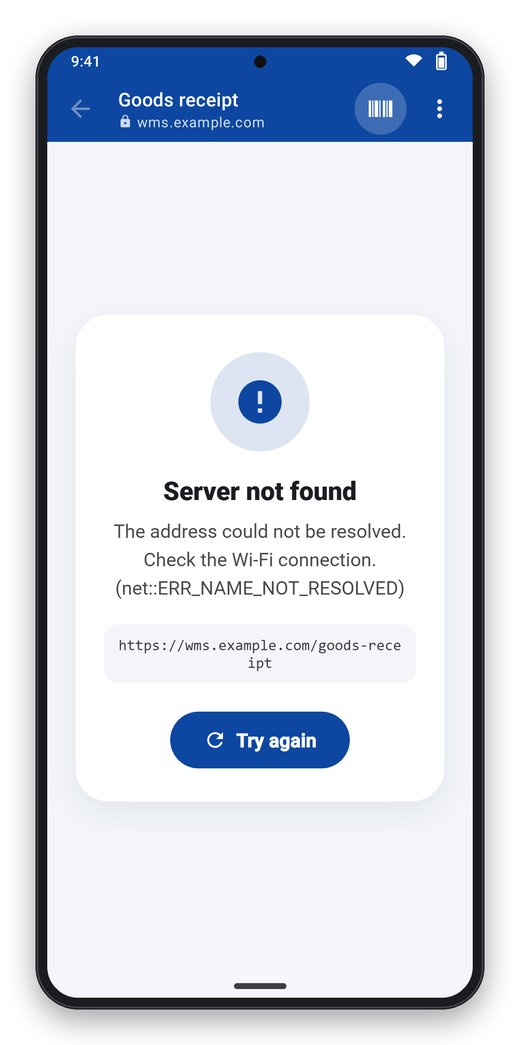
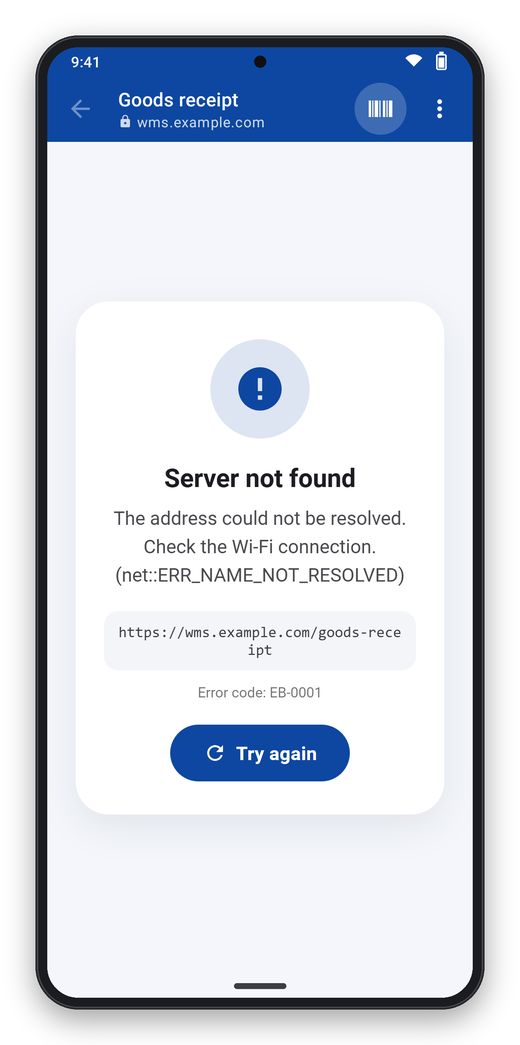
Vorbereitung für Google Play
- CI baut zusätzlich ein signiertes App Bundle (.aab) und prüft die Signatur;
  es landet mit Prüfsumme im Release.
- Store-Texte (Titel, Kurz- und Langbeschreibung) in en, de, es, fr, zh unter
  fastlane/metadata/android/, Grafiken (Icon 512, Feature-Grafik 1024x500,
  sechs Screenshots 1080x1920) erzeugt compose.py aus der echten Oberfläche.
- docs/play-store.md: Schritte vor dem ersten Upload, App-Signatur,
  Antworten für die Play Console (Datensicherheit, Einstufung, Berechtigungen).
- stage_web.py füllt die neuen Platzhalter {{code}}, {{retry}}, {{lang}} der
  Fehlerseite; das Doku-Bild der Fehlerseite zeigte sie roh.
- README: Abschnitt „Limits, honestly“ entfernt.

Claude-Session: https://claude.ai/code/session_01BMCErQXfFs9Dto6bUfzUTP

Changed region(s): [[0.2154, 0.3062, 0.8, 0.7656], [0.5846, 0.3675, 0.6154, 0.3981]]

diff --git a/tools/screenshots/compose.py b/tools/screenshots/compose.py
@@ -243,3 +243,42 @@ label_font = font("Roboto-Medium.ttf", 34)
 bd.text((200 + left.width // 2, 1000), "Default", font=label_font, fill=(68, 71, 78, 255), anchor="mm")
 bd.text((1600 - 200 - right.width // 2, 1000), "Custom branding via configuration", font=label_font, fill=(68, 71, 78, 255), anchor="mm")
 save(B.convert("RGB"), "branding.png", width=1200)
+
+
+# --------------------------------------------------------------------------- Google Play listing
+# Graphics for the store listing (fastlane layout, also read by the Play Console upload):
+# feature graphic 1024 x 500 and phone screenshots 1080 x 1920 (Play rejects sides more than 2:1).
+PLAY_GRADIENT = [(9, 36, 92), (13, 71, 161), (0, 121, 107)]
+PLAY_GLOW = (120, 180, 255)
+PLAY_SCREENS = [
+    ("launcher", "All your web apps\non one start screen"),
+    ("browser", "Scans land straight\nin the web form"),
+    ("menu", "Large controls,\nmade for gloves"),
+    ("error", "Clear error pages\nin your colors"),
+    ("launcher-branded", "Your logo,\nyour brand color"),
+    ("settings", "Locked settings\nfor administrators"),
+]
+
+play = repo / "fastlane" / "metadata" / "android" / "en-US" / "images"
+(play / "phoneScreenshots").mkdir(parents=True, exist_ok=True)
+crop_h = round(W * 500 / 1024)
+feature = hero.crop((0, (H - crop_h) // 2, W, (H - crop_h) // 2 + crop_h)).convert("RGB")
+feature.resize((1024, 500), Image.LANCZOS).save(play / "featureGraphic.png", optimize=True)
+
+for old in (play / "phoneScreenshots").glob("*.png"):
+    old.unlink()
+for i, (name, caption) in enumerate(PLAY_SCREENS, 1):
+    shot = gradient((1080, 1920), PLAY_GRADIENT).convert("RGBA")
+    glow(shot, (900, 300), 500, PLAY_GLOW, 60)
+    draw = ImageDraw.Draw(shot)
+    draw.multiline_text((540, 190), caption, font=font("Roboto-Bold.ttf", 68), fill=(255, 255, 255, 255),
+                        anchor="mm", align="center", spacing=14)
+    dev = phone(name, 1600)
+    shot.alpha_composite(dev, ((1080 - dev.width) // 2, 340))
+    shot.convert("RGB").save(play / "phoneScreenshots" / f"{i}_{name}.png", optimize=True)
+# Hi-res icon: Play rounds the corners itself, so the artwork has to fill the whole square.
+src = Image.open(repo / "app" / "src" / "main" / "ic_launcher-playstore.png").convert("RGBA")
+icon = Image.new("RGBA", src.size, (13, 71, 161, 255))
+icon.alpha_composite(src)
+icon.convert("RGB").save(play / "icon.png", optimize=True)
+print("play store graphics written")

diff --git a/tools/screenshots/stage_web.py b/tools/screenshots/stage_web.py
@@ -36,6 +36,9 @@ for key, value in {
     "message": "The address could not be resolved. Check the Wi-Fi connection. (net::ERR_NAME_NOT_RESOLVED)",
     "url": "https://wms.example.com/goods-receipt",
     "color": "#0D47A1",
+    "code": "Error code: EB-0001",
+    "retry": "Try again",
+    "lang": "en",
 }.items():
     status = status.replace("{{" + key + "}}", value)
 open(os.path.join(out, "status.html"), "w", encoding="utf-8").write(status)

diff --git a/docs/play-store.md b/docs/play-store.md
@@ -1,0 +1,110 @@
+[← README](../README.md)
+
+# Google Play
+
+How EnterpriseBrowser gets into Google Play, and what to answer in the Play Console.
+
+- [What is in the repo](#what-is-in-the-repo)
+- [Before the first upload](#before-the-first-upload)
+- [App signing](#app-signing)
+- [Play Console answers](#play-console-answers)
+- [Publishing a version](#publishing-a-version)
+
+## What is in the repo
+
+| Path | Content |
+|---|---|
+| `fastlane/metadata/android/<locale>/` | Title, short and full description in `en-US`, `de-DE`, `es-ES`, `fr-FR`, `zh-CN` (limits: 30, 80, 4000 characters) |
+| `fastlane/metadata/android/en-US/images/` | Hi-res icon 512 × 512, feature graphic 1024 × 500, six phone screenshots 1080 × 1920. Play shows them for every language. |
+| Release `vX.Y.Z` | `EnterpriseBrowser-X.Y.Z.aab` – the App Bundle for Play, signed by the CI |
+
+The folder layout is the one of [fastlane supply](https://docs.fastlane.tools/actions/supply/),
+so the texts can later be uploaded automatically. Until then, copy them into the Play Console.
+
+The graphics are rendered from the real UI like the documentation images: run the steps in
+[tools/screenshots](../tools/screenshots/README.md); `compose.py` also writes the Play graphics.
+Captions are in `PLAY_SCREENS` at the end of `compose.py`.
+
+## Before the first upload
+
+Done once, by a person with access to the company accounts:
+
+1. **Developer account** as an organisation (ICT-Baden GmbH, needs a D-U-N-S number). An
+   organisation account does not need the 14-day closed test with 12 testers that new personal
+   accounts need.
+2. **Package name** is final once the app exists in Play: `de.ictbaden.enterprisebrowser`.
+   It assumes that the domain `ict-baden.de` belongs to us (richtlinien/12, open point in
+   `richtlinien/OFFEN.md`).
+3. **Privacy policy URL** must be public. [data-and-privacy.md](data-and-privacy.md) is the
+   content; it needs a public address – either the repo is public, or the page goes on the
+   company website.
+4. **Contact details** for the store listing: e-mail (e.g. `support@ict-baden.de`), website.
+5. **Translations** of the app and of the store texts read by native speakers (richtlinien/13).
+
+## App signing
+
+Play signs the apps it delivers with its *app signing key*; we upload with an *upload key*.
+The CI signs the App Bundle with our release key (secret `ANDROID_KEYSTORE`).
+
+Decide this **before the first upload**, it cannot be changed later:
+
+| Choice | Effect |
+|---|---|
+| **Our release key becomes the app signing key** (Console: *Use a different key* → export with Google's PEPK tool) | Play and MDM/GitHub APKs carry the same signature: devices can switch between both sources without reinstalling. Recommended. |
+| Google generates the app signing key, our key is the upload key (richtlinien/05) | Play-installed apps and our APKs have different signatures: a device with the MDM version cannot update from Play and vice versa. |
+
+If Play asks for a separate upload key with the first choice, the CI needs a second keystore
+secret for the App Bundle – a small change in `.github/workflows/build.yml`.
+
+## Play Console answers
+
+**App details:** category *Business*, tags e.g. *Browser*, *Enterprise*. Free, no in-app
+purchases.
+
+**App access:** all functions are available without login. For the review: the app opens a
+built-in demo page; *Settings* has no password until one is configured.
+
+**Ads:** the app contains no ads.
+
+**Content rating (IARC questionnaire):** category *Utility, productivity, communication or
+other*. Violence, sexuality, language, controlled substances, gambling: no. User interaction /
+sharing of user content: no. *Unrestricted internet access:* **yes** – it is a browser, even if
+the administrator usually limits it to an allow list.
+
+**Target audience:** 18 and over; not designed for children.
+
+**News app:** no. **Government app:** no. **Financial features:** none. **Health:** none.
+
+**Data safety:**
+
+- *Does the app collect or share user data?* **No.** The app has no servers of its own and
+  sends nothing to ICT-Baden (no telemetry, no crash reports, no account). Like any browser it
+  transmits what the user enters into a web page to that web page's server – the servers the
+  device owner configures as start URL and allow list. Re-check this answer against the current
+  Play definitions before submitting.
+- Encryption in transit: the configured web apps decide (HTTPS recommended; the app enforces
+  strict TLS checks).
+- Data deletion: no account, nothing to delete on our side; *Clear storage* removes everything
+  on the device.
+
+**Permissions:**
+
+| Permission | Why |
+|---|---|
+| `INTERNET`, `ACCESS_NETWORK_STATE` | Loading the configured web apps, error pages without network |
+| `CAMERA` | Only when a web page of an allowed host asks for the camera (e.g. a camera barcode scan in the web app); the user is asked first |
+| `VIBRATE` | Feedback after a scan |
+
+No sensitive permissions that need a declaration form (no SMS, call log, location,
+accessibility, all-files access, package queries beyond the two scanner services).
+
+## Publishing a version
+
+1. Update `CHANGELOG.md`, push the tag `vX.Y.Z`.
+2. The CI builds and signs APK and App Bundle and attaches both to the GitHub release.
+3. Play Console → *Testing → Internal testing* → create a release → upload the `.aab`
+   → release notes from the changelog → roll out to the internal testers.
+4. Check the pre-launch report, then promote the release to *Production*.
+
+The `versionCode` is the CI run number, so every build is higher than the one before. Play
+refuses an App Bundle whose `versionCode` was uploaded already – use a new tag, not a re-run.

diff --git a/CLAUDE.md b/CLAUDE.md
@@ -29,6 +29,7 @@ JDK 17–21, Android SDK mit Compile-SDK 37.
 - Paketname `de.ictbaden.enterprisebrowser`, Debug `….debug` (Richtlinie 12). Die Broadcast-Actions hängen am Paketnamen (`<paket>.action.BARCODE`, `<paket>.action.INSTALL_CONFIG`) und sind öffentliche API – nicht nebenbei ändern. Im Manifest steht deshalb `${applicationId}`.
 - Release-APKs signiert nur die CI mit dem Schlüssel aus den Secrets `ANDROID_KEYSTORE` (Base64), `ANDROID_KEYSTORE_PASSWORD`, `ANDROID_KEY_ALIAS`. `ANDROID_KEY_PASSWORD` ist optional (PKCS12: gleiches Passwort). Ohne Schlüssel baut und testet die CI nur. Den Schlüssel hat nur pieewiee, Claude bekommt ihn nie.
 - `LICENSE` und `THIRD-PARTY-NOTICES.txt` werden beim Bauen als Assets in die APK kopiert. Neue Abhängigkeit → `THIRD-PARTY-NOTICES.txt` ergänzen; die CI gibt die Liste der Abhängigkeiten im Schritt „Abhängigkeiten der APK“ aus.
+- Google Play: Store-Texte und -Grafiken in `fastlane/metadata/android/`, Anleitung und Console-Antworten in `docs/play-store.md`. Die CI legt bei Tags zusätzlich das signierte `.aab` ins Release.
 - `gradlew` muss in Git ausführbar sein (`git update-index --chmod=+x gradlew`), sonst scheitert die CI.
 
 ## Regeln

diff --git a/README.md b/README.md
@@ -187,13 +187,8 @@ docs/            documentation and images
 - [Web integration](docs/web-integration.md) – scan events, meta tags, JavaScript API
 - [Data and privacy](docs/data-and-privacy.md) – what is stored where, which connections are made
 - [Error codes](docs/error-codes.md) – `EB-0001` … with causes
+- [Google Play](docs/play-store.md) – store texts, graphics, Play Console answers
 - [Changelog](CHANGELOG.md)
-
-## Limits, honestly
-
-- **Package changed** from `io.github.pieewiee.enterprisebrowser` to `de.ictbaden.enterprisebrowser`: Android treats it as a new app, see the [changelog](CHANGELOG.md).
-- User interface in English, German, Spanish, French and Chinese (simplified). The translations were made with machine help and still need a review by native speakers.
-- The built-in demo page and the documentation are in English.
 
 ---
 

diff --git a/CHANGELOG.md b/CHANGELOG.md
@@ -9,6 +9,8 @@
 - **Settings → Info** now shows data and privacy, licence, third-party licences, source code, support, website and
   legal notice; new page [Data and privacy](docs/data-and-privacy.md).
 - Long single words in the menu are hyphenated instead of being cut in the middle.
+- Prepared for Google Play: the CI also builds a signed App Bundle (`.aab`), store texts in five languages and store
+  graphics in `fastlane/`, Play Console answers in [docs/play-store.md](docs/play-store.md).
 
 ## 0.5.0
 
